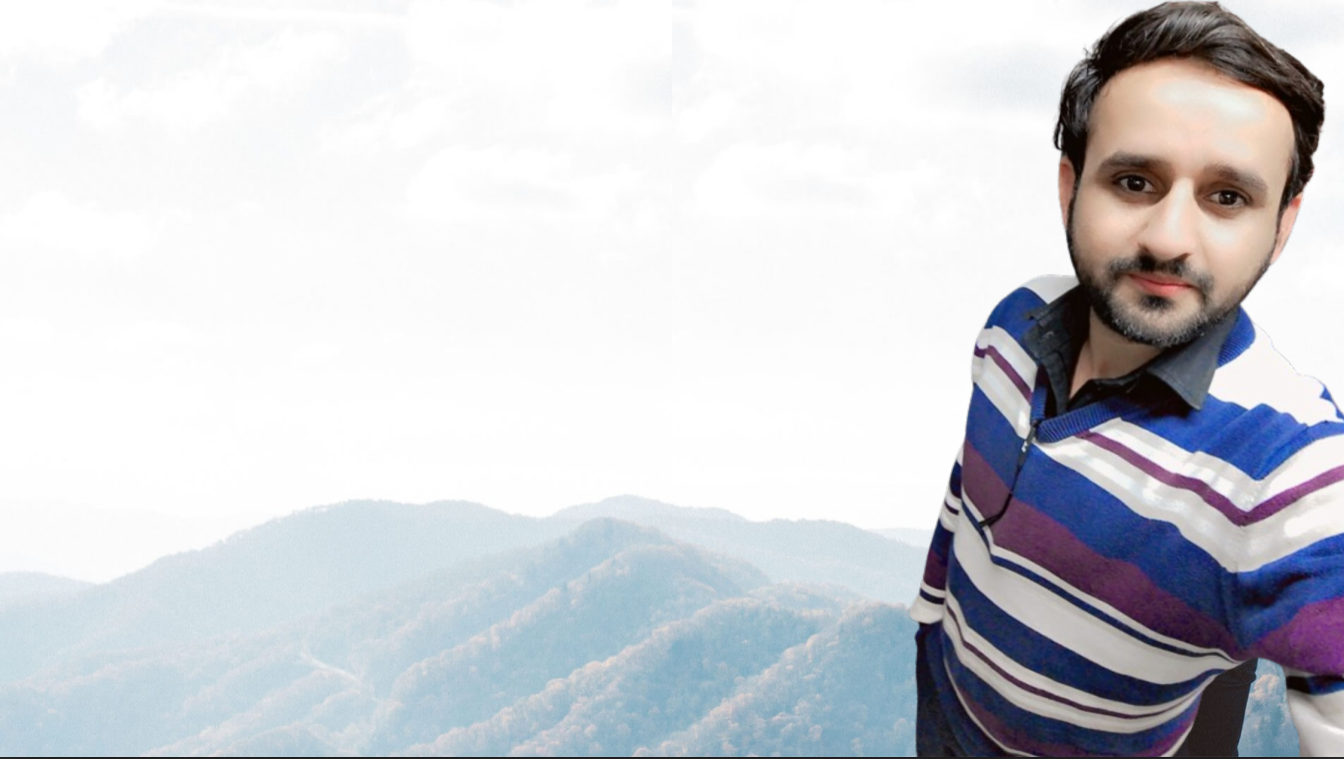
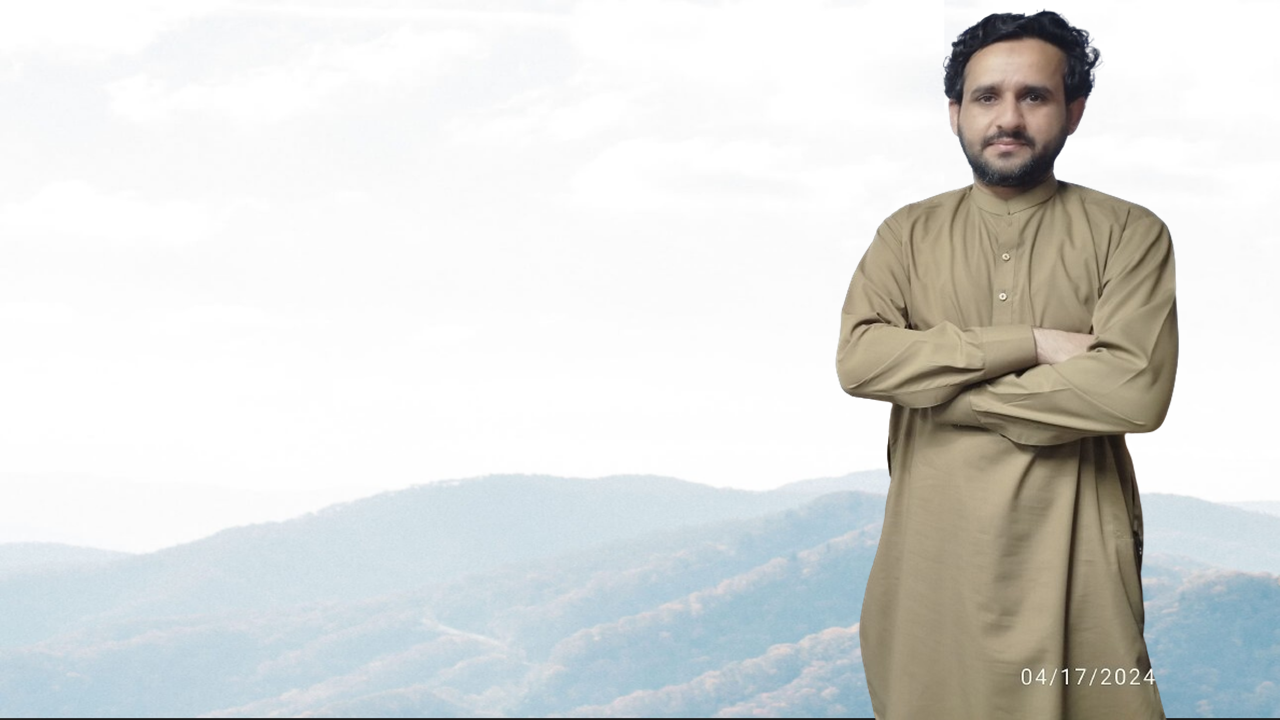
hero image and profile image updated.

diff --git a/index.html b/index.html
@@ -77,7 +77,7 @@
 
         <div class="row">
           <div class="col-lg-4">
-            <img src="assets/img/profile-img.jpeg" class="img-fluid" alt="">
+            <img src="assets/img/profile-img.png" class="img-fluid" alt="">
           </div>
           <div class="col-lg-8 pt-4 pt-lg-0 content">
             <h3>Full Stack Developer &amp; Freelancer</h3>
